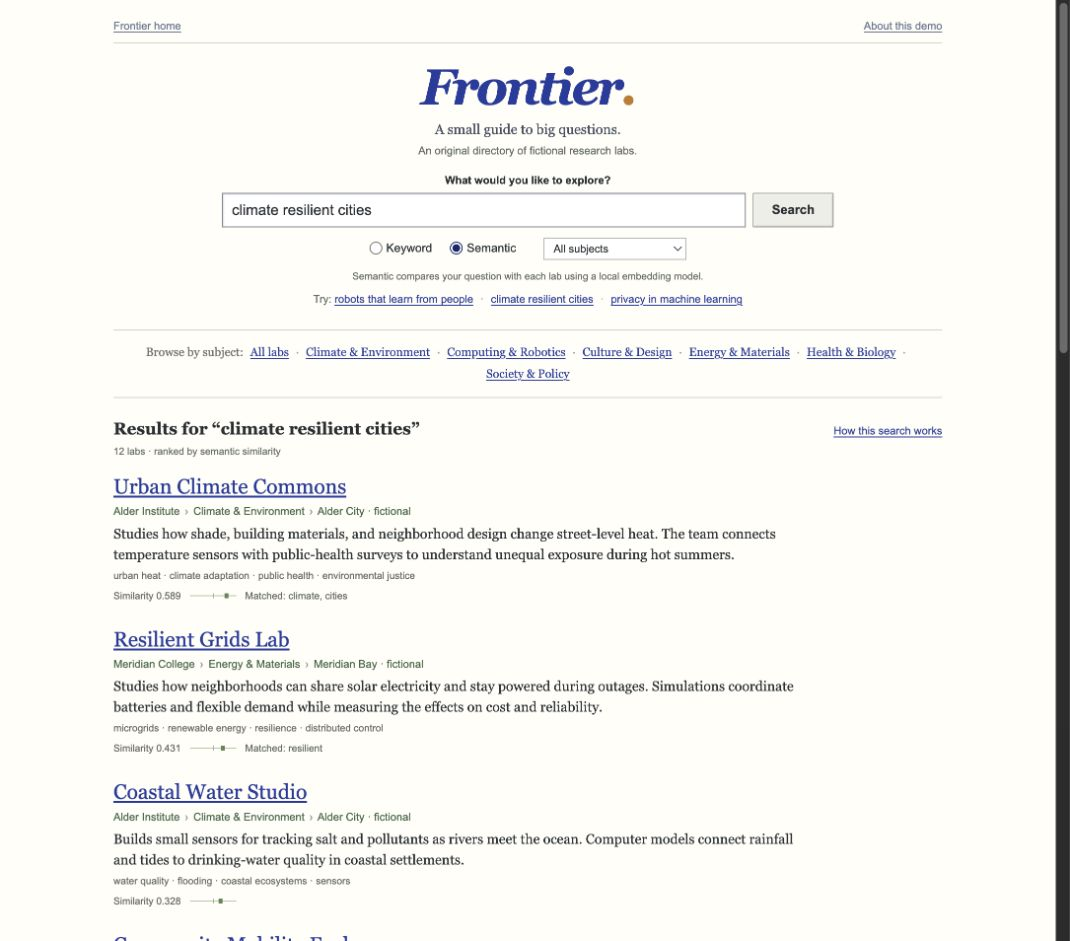
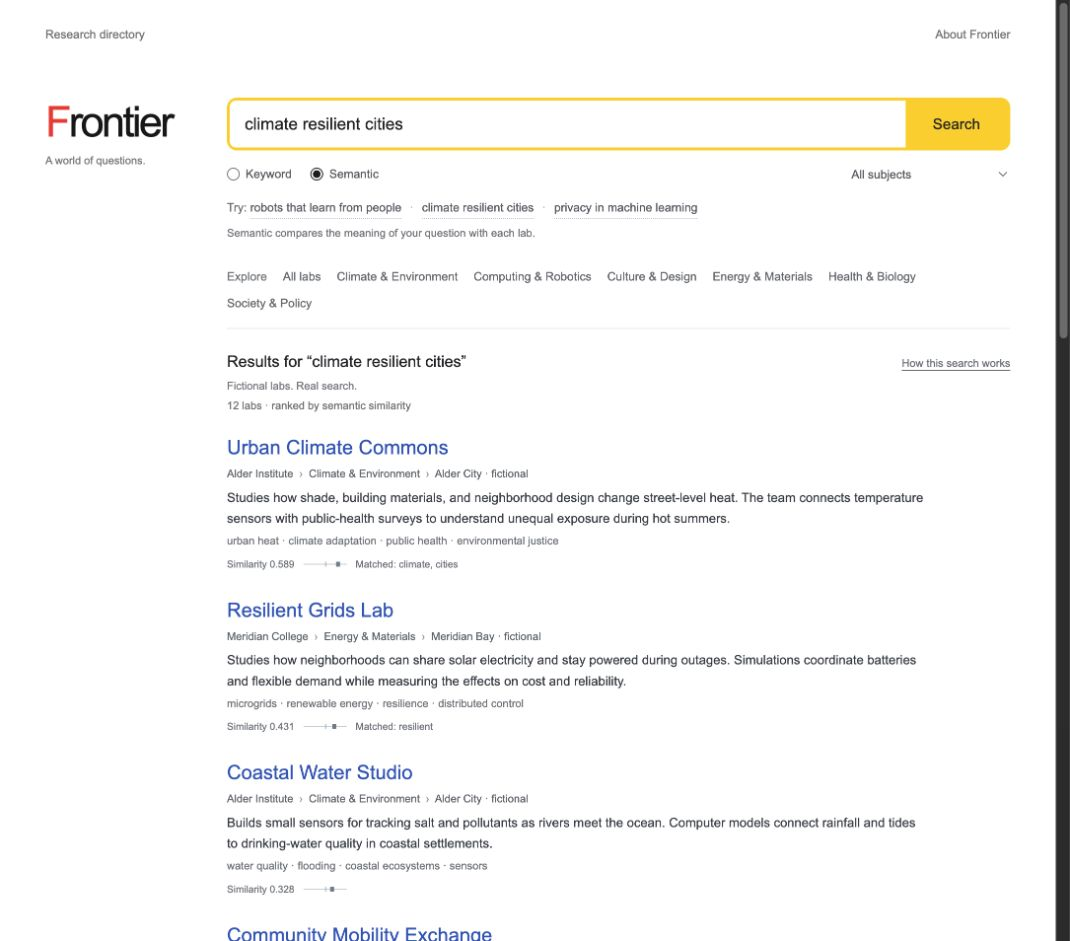
Give Frontier a Yandex-inspired search interface

diff --git a/projects/frontier/app/globals.css b/projects/frontier/app/globals.css
@@ -1,4 +1,5 @@
-:root{--paper:#fffef8;--ink:#292e32;--blue:#183d9b;--visited:#5a4385;--green:#496748;--muted:#666b68;--line:#d3d5c9;--serif:Georgia,"Times New Roman",serif;--sans:Arial,Helvetica,sans-serif;--mono:"SFMono-Regular",Consolas,"Liberation Mono",monospace}
-*{box-sizing:border-box}html{scroll-behavior:smooth;scroll-padding-top:20px}body{margin:0;background:var(--paper);color:var(--ink);font:15px/1.5 var(--serif)}h1,h2,h3,h4,p{margin:0}a,.link-button{color:var(--blue);text-decoration:underline;text-underline-offset:2px}a:hover,.link-button:hover{color:#8b322e}button,input,select{font:13px var(--sans);color:inherit}button{cursor:pointer;background:#eeeee8;border:1px solid #9a9e95;border-radius:1px;box-shadow:inset 1px 1px 0 #fff,inset -1px -1px 0 #d8d9d0;padding:5px 12px}button:hover:not(:disabled){background:#e7e8df}button:disabled{cursor:default;opacity:.45}button:focus-visible,a:focus-visible,input:focus-visible,select:focus-visible,pre:focus-visible{outline:2px solid #496bba;outline-offset:3px}input{accent-color:var(--blue)}::selection{background:#dce5fa}.link-button{background:none;border:0;border-radius:0;box-shadow:none;padding:0;font:inherit;text-align:left}.link-button:hover:not(:disabled){background:none}.sr-only{position:absolute;width:1px;height:1px;padding:0;overflow:hidden;clip:rect(0,0,0,0);white-space:nowrap;border:0}.skip-link{position:fixed;top:-60px;left:20px;background:var(--blue);color:#fff;padding:9px;z-index:100}.skip-link:focus{top:10px}.page-shell{max-width:910px;margin:0 auto;padding:20px 35px 28px}.utility-links{display:flex;justify-content:space-between;font:11px var(--sans);padding-bottom:10px;border-bottom:1px solid var(--line)}.utility-links a{color:#657491}.search-home{text-align:center;padding:20px 0 22px}.search-home h1{font:bold italic 51px/.95 var(--serif);letter-spacing:-2.7px}.search-home h1 a{text-decoration:none;color:var(--blue)}.search-home h1 span{color:#bc7c32}.tagline{font-size:14px;margin-top:8px;color:#454e61}.catalog-note{font:11px var(--sans);margin-top:5px;color:var(--muted)}.search-form{max-width:620px;margin:17px auto 0}.search-form>label{display:block;font:bold 11px var(--sans);margin-bottom:6px}.question-box{display:flex;gap:7px;min-height:35px}.question-box input{min-width:0;flex:1;padding:6px 9px;background:white;border:1px solid #818994;box-shadow:inset 1px 1px 1px #e0e2e7;font:15px var(--sans);border-radius:0}.question-box input::placeholder{color:#91969a}.search-button{font-weight:bold;min-width:82px}.search-options{display:flex;align-items:center;justify-content:center;gap:28px;margin-top:9px}.mode-selector{display:flex;align-items:center;gap:18px;margin:0;padding:0;border:0}.mode-selector label{display:flex;align-items:center;gap:4px;font:12px var(--sans);cursor:pointer}.mode-selector input{margin:0}.discipline-select select{max-width:210px;background:#fff;border:1px solid #b4b7b1;border-radius:0;padding:3px 5px;font-size:11px}.mode-explainer{font:10px/1.5 var(--sans);color:var(--muted);margin:9px 0 7px}.example-row{font:11px/1.6 var(--sans);color:var(--muted)}.separator{color:#999f9f;padding:0 4px}.semantic-notice{font:12px/1.6 var(--sans);color:#806236;margin-top:12px}.subject-directory{font:12px/1.85 var(--serif);padding:11px 0 12px;border-top:1px solid var(--line);border-bottom:1px solid var(--line);text-align:center}.subject-directory strong{font-weight:normal;color:#696c68;margin-right:4px}.subject-directory button[aria-current=true]{font-weight:bold;text-decoration:none;color:var(--ink)}.results-heading{display:flex;align-items:baseline;justify-content:space-between;gap:20px;padding:20px 0 10px}.results-heading h2{font:bold 17px/1.35 var(--serif);overflow-wrap:anywhere}.result-count{font:10px/1.6 var(--sans);color:var(--muted);margin-top:3px}.trace-toggle{flex-shrink:0;font:11px var(--sans)}.result-list{padding:4px 0}.lab-result{margin:0 0 23px;max-width:760px}.lab-result h3{font:normal 21px/1.3 var(--serif)}.lab-title{font:inherit}.lab-title[aria-expanded=true]{color:var(--visited)}.lab-address{font:11px/1.6 var(--sans);color:var(--green);margin:3px 0}.lab-address>span{color:#879380;margin:0 2px}.lab-summary{font:14px/1.5 var(--serif);max-width:710px}.lab-topics{font:10px/1.6 var(--sans);color:#656964;margin-top:3px}.score-line{display:flex;align-items:center;gap:9px;flex-wrap:wrap;color:#62675e;font:10px/1.5 var(--sans);margin-top:5px}.score-track{display:inline-block;position:relative;width:47px;height:3px;background:#dbe0d4;flex:0 0 47px}.score-fill{display:block;height:100%;background:#69845a}.score-track.cosine{height:1px;background:#b9c6ac}.cosine::after{position:absolute;content:"";left:50%;top:-2px;width:1px;height:5px;background:#a6b59c}.cosine-point{position:absolute;top:-2px;width:4px;height:5px;transform:translateX(-50%);background:#69845a;z-index:1}.matched-terms{color:#62695f}.inline-profile{margin-top:12px;border-left:2px solid #b9c6de;padding:4px 0 4px 17px;max-width:730px}.profile-heading{display:flex;align-items:center;justify-content:space-between;gap:18px;margin-bottom:6px}.profile-heading h4{font:bold 13px var(--sans)}.profile-heading button{font:10px var(--sans)}.inline-profile>p{font:13px/1.65 var(--serif);margin-top:7px}.inline-profile .provenance-note{font:10px/1.6 var(--sans);color:var(--muted);margin-top:10px}.provenance-note span{color:#656c61}.ranking-note{font:10px/1.65 var(--sans);color:var(--muted);max-width:720px;padding:6px 0 15px}.state-message{padding:30px 0 45px}.state-message h3{font:bold 17px var(--serif);margin-bottom:9px}.state-message p{font:13px/1.6 var(--sans);color:var(--muted);margin-bottom:16px;max-width:600px}.state-message>div{display:flex;gap:10px}.state-message .state-footnote{font-size:10px;margin-top:15px}.loading-state{font:13px var(--sans);color:var(--muted);padding:35px 0 65px}.loading-state p::after{content:"";display:inline-block;width:5px;height:5px;background:#829ac5;margin-left:12px;vertical-align:middle;animation:blink 1s steps(2,start) infinite}@keyframes blink{to{visibility:hidden}}.trace-section{margin:6px 0 25px;border-top:1px solid #9caecb;border-bottom:1px solid #9caecb;background:#f4f6fa;padding:15px 16px}.trace-heading{display:flex;align-items:baseline;justify-content:space-between;gap:15px}.trace-heading h3{font:bold 17px var(--serif)}.trace-heading button{font:11px var(--sans)}.trace-intro{font:12px/1.65 var(--sans);color:#657083;margin:9px 0 12px}.trace-controls{display:flex;gap:7px;align-items:center;flex-wrap:wrap;border-top:1px solid #d6dce7;border-bottom:1px solid #d6dce7;padding:10px 0}.trace-controls button{font-size:11px;padding:5px 11px}.trace-controls .play-button{font-weight:bold}.trace-position{font:10px var(--sans);color:#5e6b7e;margin-left:5px}.trace-controls .code-toggle{margin-left:auto}.trace-body.with-code{display:grid;grid-template-columns:minmax(0,.95fr) minmax(0,1.15fr);gap:17px}.operation-panel{min-width:0;padding-top:14px}.operation-list{margin:0;padding-left:23px;font:12px/1.8 var(--sans);color:#9aa4b6}.operation-list li{padding:1px 0}.operation-list button{border:0;background:none;box-shadow:none;padding:0;color:#57719f;font:inherit;text-align:left;text-decoration:underline;text-underline-offset:2px}.operation-list .current{font-weight:bold;color:#283f66;text-decoration:none}.operation-list button:hover:not(:disabled){background:none;color:var(--blue)}.operation-detail{margin:15px 0 10px;padding-top:13px;border-top:1px dotted #c7d0df}.operation-detail h4{font:bold 15px var(--serif);margin-bottom:7px}.operation-detail>p{font:12px/1.75 var(--sans);color:#5d6b81;overflow-wrap:anywhere}.operation-detail .source-location{font:9px/1.6 var(--mono);color:#5e6b7e;margin-top:11px}.source-panel{min-width:0;border-left:1px solid #d4dce9;padding-left:15px;margin-top:14px}.source-heading{display:flex;align-items:baseline;justify-content:space-between;gap:10px;font:10px var(--mono)}.source-heading button{font:10px var(--sans)}.source-caption{font:9px var(--sans);color:#5e6b7e;margin-top:8px}.source-panel pre{font:10px/1.8 var(--mono);color:#3e5372;overflow:auto;padding:10px 0;max-height:520px;tab-size:4;white-space:pre;margin:8px 0}.code-line{display:block}.line-number{display:inline-block;width:30px;text-align:right;padding-right:10px;color:#5e6b7e;user-select:none;font-size:9px}.source-error{font:10px/1.6 var(--sans);color:#77581d;margin-top:10px}.trace-caption{font:9px/1.6 var(--sans);color:#586577;margin-top:12px}.runtime-note{font:9px/1.6 var(--mono);color:#586577;margin-top:5px;overflow-wrap:anywhere}.footer{border-top:1px solid var(--line);padding-top:16px;margin-top:8px;color:var(--muted);font:11px/1.65 var(--serif);max-width:840px}.footer>p{max-width:700px}.footer strong{color:#5d655f}.service-status{font:10px/1.6 var(--sans);margin-top:7px}.footer-links{display:flex;justify-content:space-between;font:10px var(--sans);margin-top:18px;max-width:none!important}.footer-links>span{color:#666d61}
-@media(min-width:1300px){.page-shell{padding-top:24px}}@media(max-width:700px){.page-shell{padding:16px 22px 24px}.search-home{padding-top:23px}.search-home h1{font-size:47px}.search-form{margin-top:16px}.search-options{gap:20px}.results-heading{gap:15px}.results-heading h2{font-size:16px}.trace-toggle{font-size:10px}.trace-body.with-code{display:block}.source-panel{border-left:0;border-top:1px solid #d4dce9;padding:14px 0 0}.source-panel pre{font-size:11px;max-height:450px}.lab-result{margin-bottom:23px}}@media(max-width:440px){.page-shell{padding:14px 16px 22px}.search-home h1{font-size:45px}.search-home{padding:20px 0}.tagline{font-size:13px}.catalog-note{font-size:10px}.question-box{gap:5px}.question-box input{font-size:13px;padding:7px}.search-button{min-width:68px;padding:5px 10px;font-size:12px}.search-options{gap:13px;justify-content:space-between}.mode-selector{gap:11px}.mode-selector label{font-size:11px}.discipline-select{min-width:0;flex:1;max-width:170px}.discipline-select select{width:100%;max-width:100%;font-size:10px}.mode-explainer{font-size:9px}.example-row{font-size:10px;line-height:1.8}.subject-directory{font-size:11px;padding:10px 0;line-height:1.9}.results-heading{display:block;padding-top:17px}.trace-toggle{margin-top:7px;display:block}.lab-result h3{font-size:21px}.lab-summary{font-size:14px}.lab-address{font-size:10px}.lab-topics{font-size:9px}.trace-section{padding:13px 11px}.trace-controls{gap:6px}.trace-controls button{padding:5px 8px;font-size:10px}.trace-position{font-size:9px;margin-left:auto}.trace-controls .code-toggle{margin-left:0}.profile-heading{gap:10px}.profile-heading button{font-size:9px}.inline-profile{padding-left:12px}.footer-links{gap:15px}}
-@media(prefers-reduced-motion:reduce){html{scroll-behavior:auto}.loading-state p::after{animation:none}}
+:root{--paper:#fff;--ink:#202124;--blue:#1755b7;--visited:#683e9c;--muted:#6a6c70;--line:#e8e9eb;--yellow:#fc0;--red:#ed252a;--sans:Arial,Helvetica,sans-serif;--mono:"SFMono-Regular",Consolas,"Liberation Mono",monospace;--search-indent:184px}
+*{box-sizing:border-box}html{scroll-behavior:smooth;scroll-padding-top:20px}body{margin:0;background:var(--paper);color:var(--ink);font:14px/1.5 var(--sans)}h1,h2,h3,h4,p{margin:0}a,.link-button{color:var(--blue);text-decoration:none}a:hover,.link-button:hover{color:#c5221f;text-decoration:underline;text-underline-offset:3px}button,input,select{font:inherit;color:inherit}button{cursor:pointer;background:#f0f1f2;border:1px solid transparent;border-radius:6px;padding:7px 13px;box-shadow:none}button:hover:not(:disabled){background:#e5e7e9}button:disabled{cursor:default;opacity:.48}button:focus-visible,a:focus-visible,input:focus-visible,select:focus-visible,pre:focus-visible{outline:2px solid #386fc1;outline-offset:3px}input{accent-color:#34383e}::selection{background:#fff0ae}.link-button{background:none;border:0;border-radius:0;padding:0;font:inherit;text-align:left;box-shadow:none}.link-button:hover:not(:disabled){background:none}.sr-only{position:absolute;width:1px;height:1px;padding:0;overflow:hidden;clip:rect(0,0,0,0);white-space:nowrap;border:0}.skip-link{position:fixed;top:-60px;left:20px;background:var(--yellow);color:#202124;padding:10px 15px;z-index:100;border-radius:5px}.skip-link:focus{top:10px}.page-shell{max-width:1200px;margin:0 auto;padding:26px 46px 35px}.utility-links{display:flex;justify-content:space-between;font-size:12px}.utility-links a{color:#6b6d70}.search-home{display:grid;grid-template-columns:var(--search-indent) minmax(0,1fr);align-items:start;padding:55px 0 27px;gap:0}.search-brand{padding-top:1px}.search-home h1{font:500 43px/1.1 var(--sans);letter-spacing:-2.5px}.search-home h1 a{color:#171717;text-decoration:none}.search-home h1 span{color:var(--red)}.tagline{font-size:11px;color:#6e7074;margin-top:7px}.search-workspace{min-width:0;max-width:850px}.search-form{margin:0}.question-box{display:flex;background:var(--yellow);border:3px solid var(--yellow);border-radius:10px;overflow:visible;min-height:53px;transition:border-color .12s}.question-box:focus-within{border-color:#edb900}.question-box input{flex:1;min-width:0;border:0;background:#fff;box-shadow:none;font-size:17px;padding:11px 15px;border-radius:6px 0 0 6px}.question-box input::placeholder{color:#6d7279;opacity:1}.question-box input:focus-visible{outline:2px solid #a67500;outline-offset:-3px}.search-button{min-width:103px;padding:10px 22px;background:var(--yellow);border:0;border-radius:0 7px 7px 0;font-size:15px;letter-spacing:.1px;color:#222;box-shadow:none}.search-button:hover:not(:disabled){background:#f2bf00}.search-button:focus-visible{outline:2px solid #333;outline-offset:-5px}.search-options{display:flex;align-items:center;gap:24px;margin-top:12px}.mode-selector{display:flex;align-items:center;gap:19px;padding:0;border:0;margin:0}.mode-selector label{display:flex;gap:6px;align-items:center;font-size:12px;color:#54575c;cursor:pointer;min-height:24px}.mode-selector input{margin:0;width:13px;height:13px}.discipline-select{margin-left:auto;display:block;min-width:0}.discipline-select select{border:0;background:#fff;color:#54575c;max-width:260px;font-size:12px;padding:4px 22px 4px 3px;cursor:pointer;border-radius:3px}.example-row{font-size:12px;line-height:1.8;color:#6d6f73;margin-top:11px}.example-row>.separator{color:#a1a4a9}.example-row .link-button{color:#545960;border-bottom:1px dotted #bbbfc5;text-decoration:none}.example-row .link-button:hover{color:#c5221f;border-bottom-color:#c5221f}.separator{padding:0 5px;color:#a2a5a9}.mode-explainer{font-size:11px;color:#6e7176;margin-top:6px}.semantic-notice{font-size:12px;line-height:1.6;margin-top:12px;color:#815b00}.subject-directory{margin-left:var(--search-indent);padding:0 0 16px;max-width:850px;display:flex;align-items:baseline;flex-wrap:wrap;gap:9px 16px;border-bottom:1px solid var(--line);font-size:12px;color:#65686d}.subject-directory>strong{font-weight:normal;color:#6e7176}.subject-directory button{color:#61656a;white-space:nowrap;position:relative}.subject-directory button:hover{color:#c5221f}.subject-directory button[aria-current=true]{font-weight:bold;color:#202124}.subject-directory button[aria-current=true]::after{content:"";position:absolute;left:0;right:0;bottom:-7px;height:2px;background:var(--yellow)}.subject-separator{display:none}.research-index{margin-left:var(--search-indent);max-width:850px}.results-heading{display:flex;align-items:baseline;justify-content:space-between;gap:20px;padding:22px 0 18px}.results-heading h2{font-size:16px;font-weight:500;line-height:1.4;overflow-wrap:anywhere}.catalog-note{font-size:11px;color:#6e7176;margin-top:5px}.result-count{font-size:11px;line-height:1.6;color:var(--muted);margin-top:3px}.trace-toggle{font-size:11px;color:#666b73;flex-shrink:0;text-decoration:underline;text-underline-offset:3px}.result-list{padding:2px 0}.lab-result{margin-bottom:25px;max-width:735px}.lab-result h3{font-size:20px;font-weight:400;line-height:1.35}.lab-title{font:inherit}.lab-title[aria-expanded=true]{color:var(--visited)}.lab-address{font-size:11px;line-height:1.7;color:#5c6269;margin:4px 0}.lab-address>span{color:#94999f;margin:0 3px}.lab-summary{font-size:13px;line-height:1.65;color:#343940;max-width:710px}.lab-topics{font-size:11px;line-height:1.65;color:#6b7076;margin-top:3px}.score-line{display:flex;align-items:center;gap:9px;flex-wrap:wrap;color:#686d74;font-size:10px;line-height:1.6;margin-top:6px}.score-track{display:inline-block;position:relative;width:44px;height:3px;background:#e3e5e8;flex:0 0 44px;border-radius:1px}.score-fill{display:block;height:100%;background:#707b89;border-radius:1px}.score-track.cosine{height:1px;background:#c7cdd4}.cosine::after{position:absolute;content:"";left:50%;top:-2px;width:1px;height:5px;background:#a3adb9}.cosine-point{position:absolute;top:-2px;width:4px;height:5px;transform:translateX(-50%);background:#707b89;z-index:1}.matched-terms{color:#686d74}.inline-profile{margin-top:13px;border-left:3px solid var(--yellow);padding:2px 0 3px 17px;max-width:715px}.profile-heading{display:flex;align-items:center;justify-content:space-between;gap:18px;margin-bottom:7px}.profile-heading h4{font-size:13px;font-weight:600}.profile-heading button{font-size:11px}.inline-profile>p{font-size:12px;line-height:1.7;margin-top:8px;color:#454a51}.inline-profile .provenance-note{font-size:10px;line-height:1.65;color:#686d74;margin-top:11px}.provenance-note span{color:#686d74}.ranking-note{font-size:11px;line-height:1.7;color:var(--muted);max-width:720px;padding:4px 0 18px}.state-message{padding:25px 0 45px}.state-message h3{font-size:18px;font-weight:500;margin-bottom:10px}.state-message p{font-size:13px;line-height:1.65;color:var(--muted);margin-bottom:17px;max-width:600px}.state-message>div{display:flex;gap:10px;flex-wrap:wrap}.state-message>button,.state-message>div>button:first-child{background:var(--yellow);color:#222}.state-message .state-footnote{font-size:11px;margin-top:16px}.loading-state{font-size:13px;color:var(--muted);padding:30px 0 65px}.loading-state p::after{content:"";display:inline-block;width:6px;height:6px;background:#dab400;border-radius:50%;margin-left:12px;vertical-align:middle;animation:blink 1s steps(2,start) infinite}@keyframes blink{to{visibility:hidden}}.trace-section{margin:4px 0 25px;background:#f6f7f8;border-radius:8px;padding:19px 20px}.trace-heading{display:flex;align-items:baseline;justify-content:space-between;gap:15px}.trace-heading h3{font-size:17px;font-weight:500}.trace-heading button{font-size:11px}.trace-intro{font-size:12px;line-height:1.7;color:#5b6370;margin:11px 0 14px}.trace-controls{display:flex;gap:7px;align-items:center;flex-wrap:wrap;border-top:1px solid #e0e3e7;border-bottom:1px solid #e0e3e7;padding:11px 0}.trace-controls button{font-size:11px;padding:6px 11px;background:#e9ecef;color:#3c4652}.trace-controls .play-button{font-weight:500;background:var(--yellow);color:#222}.trace-controls .play-button:hover:not(:disabled){background:#f2bf00}.trace-position{font-size:10px;color:#5c6675;margin-left:5px}.trace-controls .code-toggle{margin-left:auto}.trace-body.with-code{display:grid;grid-template-columns:minmax(0,.95fr) minmax(0,1.15fr);gap:17px}.operation-panel{min-width:0;padding-top:15px}.operation-list{margin:0;padding-left:23px;font-size:12px;line-height:1.8;color:#626d7b}.operation-list li{padding:2px 0}.operation-list button{border:0;background:none;border-radius:0;padding:0;color:#42659b;font:inherit;text-align:left;text-decoration:none}.operation-list .current{font-weight:bold;color:#333e4d;text-decoration:underline;text-decoration-color:#e2bb00;text-decoration-thickness:2px;text-underline-offset:3px}.operation-list button:hover:not(:disabled){background:none;color:#c5221f}.operation-detail{margin:16px 0 9px;padding-top:14px;border-top:1px solid #dde1e6}.operation-detail h4{font-size:14px;font-weight:600;margin-bottom:8px}.operation-detail>p{font-size:12px;line-height:1.75;color:#566273;overflow-wrap:anywhere}.operation-detail .source-location{font:9px/1.6 var(--mono);color:#5e6b7e;margin-top:12px}.source-panel{min-width:0;border-left:1px solid #dce1e7;padding-left:15px;margin-top:15px}.source-heading{display:flex;align-items:baseline;justify-content:space-between;gap:10px;font:10px var(--mono)}.source-heading button{font:10px var(--sans)}.source-caption{font-size:9px;color:#5e6b7e;margin-top:9px}.source-panel pre{font:10px/1.85 var(--mono);color:#3c506b;overflow:auto;padding:11px 0;max-height:520px;tab-size:4;white-space:pre;margin:8px 0}.code-line{display:block}.line-number{display:inline-block;width:30px;text-align:right;padding-right:10px;color:#5e6b7e;user-select:none;font-size:9px}.source-error{font-size:10px;line-height:1.6;color:#77581d;margin-top:11px}.trace-caption{font-size:10px;line-height:1.6;color:#586577;margin-top:13px}.runtime-note{font:9px/1.6 var(--mono);color:#586577;margin-top:5px;overflow-wrap:anywhere}.footer{border-top:1px solid var(--line);padding-top:20px;margin:15px 0 0 var(--search-indent);color:var(--muted);font-size:11px;line-height:1.7;max-width:850px}.footer>p{max-width:740px}.footer strong{font-weight:500;color:#545a62}.service-status{font-size:10px;line-height:1.6;margin-top:8px}.footer-links{display:flex;justify-content:space-between;font-size:11px;margin-top:21px;max-width:none!important}.footer-links>span{color:#6e747c}
+@media(min-width:1450px){.page-shell{padding-top:30px}.search-home{padding-top:72px}}@media(max-width:1050px){:root{--search-indent:154px}.page-shell{padding-left:32px;padding-right:32px}.search-home h1{font-size:37px}.tagline{font-size:10px}.search-home{padding-top:43px}.question-box{min-height:50px}.question-box input{font-size:16px}.search-button{min-width:90px;padding:10px 19px}.subject-directory{gap:10px 15px}.results-heading{gap:15px}.lab-result{max-width:100%}.trace-toggle{font-size:10px}.trace-body.with-code{grid-template-columns:minmax(0,.9fr) minmax(0,1.1fr)}}@media(max-width:760px){:root{--search-indent:0px}.page-shell{padding:21px 27px 28px}.search-home{display:block;padding:28px 0 22px}.search-brand{display:flex;gap:18px;align-items:baseline;margin-bottom:20px}.search-home h1{font-size:43px}.tagline{font-size:11px;margin:0}.search-options{gap:20px}.question-box{min-height:52px}.question-box input{font-size:16px}.search-button{min-width:92px}.subject-directory{padding-bottom:17px;gap:10px 17px}.results-heading{padding-top:20px}.results-heading h2{font-size:16px}.trace-toggle{font-size:11px}.trace-body.with-code{display:block}.source-panel{border-left:0;border-top:1px solid #dce1e7;padding:15px 0 0}.source-panel pre{font-size:11px;max-height:450px}.lab-result{margin-bottom:25px}.lab-result h3{font-size:20px}}
+@media(max-width:440px){.page-shell{padding:18px 17px 25px}.utility-links{font-size:11px}.search-home{padding:29px 0 19px}.search-brand{gap:16px;margin-bottom:18px}.search-home h1{font-size:40px;letter-spacing:-2.3px}.tagline{font-size:10px;line-height:1.6;max-width:100px}.question-box{min-height:49px;border-width:3px;border-radius:9px}.question-box input{font-size:14px;padding:10px 11px}.search-button{min-width:76px;font-size:13px;padding:10px 14px}.search-options{gap:11px;margin-top:10px}.mode-selector{gap:15px}.mode-selector label{font-size:11px;gap:5px}.mode-selector input{width:12px;height:12px}.discipline-select{max-width:145px}.discipline-select select{max-width:100%;width:100%;font-size:11px;padding-right:16px}.example-row{font-size:11px;line-height:1.9;margin-top:9px}.mode-explainer{font-size:10px;line-height:1.7;margin-top:6px}.subject-directory{font-size:11px;gap:10px 15px}.results-heading{display:block;padding-top:19px;padding-bottom:18px}.trace-toggle{margin-top:9px;display:block;font-size:11px}.result-count,.catalog-note{font-size:10px}.lab-result h3{font-size:19px}.lab-summary{font-size:13px;line-height:1.7}.lab-address{font-size:10px}.lab-topics{font-size:10px}.score-line{font-size:10px}.trace-section{padding:15px 13px}.trace-controls{gap:6px}.trace-controls button{padding:6px 9px;font-size:10px}.trace-position{font-size:9px;margin-left:auto}.trace-controls .code-toggle{margin-left:0}.profile-heading{gap:10px}.profile-heading button{font-size:10px}.inline-profile{padding-left:13px}.footer-links{gap:15px;font-size:10px}}
+@media(prefers-reduced-motion:reduce){html{scroll-behavior:auto}.loading-state p::after{animation:none}.question-box{transition:none}}

diff --git a/projects/frontier/app/page.tsx b/projects/frontier/app/page.tsx
@@ -135,30 +135,30 @@ export default function Frontier() {
 
   return <>
     <a className="skip-link" href="#research-index">Skip to research results</a>
-    <div className="page-shell">
-      <nav className="utility-links" aria-label="Page navigation"><a href="/">Frontier home</a><a href="#about">About this demo</a></nav>
+    <div className={`page-shell${hasQuery || discipline ? " search-active" : ""}`}>
+      <nav className="utility-links" aria-label="Page navigation"><a href="/">Research directory</a><a href="#about">About Frontier</a></nav>
       <main>
         <header className="search-home">
-          <h1><a href="/">Frontier<span aria-hidden="true">.</span></a></h1>
-          <p className="tagline">A small guide to big questions.</p>
-          <p className="catalog-note">An original directory of fictional research labs.</p>
+          <div className="search-brand"><h1><a href="/" aria-label="Frontier home"><span>F</span>rontier</a></h1><p className="tagline">A world of questions.</p></div>
+          <div className="search-workspace">
           <form className="search-form" onSubmit={event => { event.preventDefault(); search(); }}>
-            <label htmlFor="research-question">What would you like to explore?</label>
-            <div className="question-box"><input ref={searchInput} id="research-question" value={query} onChange={event => setQuery(event.target.value)} maxLength={500} autoComplete="off" placeholder="A topic, a question, an idea…" /><button className="search-button" type="submit">Search</button></div>
+            <label className="sr-only" htmlFor="research-question">What would you like to explore?</label>
+            <div className="question-box"><input ref={searchInput} id="research-question" value={query} onChange={event => setQuery(event.target.value)} maxLength={500} autoComplete="off" placeholder="Find a lab, explore an idea" /><button className="search-button" type="submit">Search</button></div>
             <div className="search-options">
               <fieldset className="mode-selector"><legend className="sr-only">Search method</legend>{(["keyword", "semantic"] as Mode[]).map(value => <label key={value}><input type="radio" name="mode" value={value} checked={mode === value} onChange={() => search({ mode: value })} />{value === "keyword" ? "Keyword" : "Semantic"}</label>)}</fieldset>
               <label className="discipline-select"><span className="sr-only">Filter by subject</span><select value={discipline} onChange={event => search({ discipline: event.target.value })}><option value="">All subjects</option>{disciplines.map(value => <option key={value} value={value}>{value}</option>)}{discipline && !disciplines.includes(discipline) && <option value={discipline}>{discipline}</option>}</select></label>
             </div>
           </form>
-          <p className="mode-explainer">{mode === "keyword" ? "Keyword finds matching words. Semantic looks for a similar meaning." : "Semantic compares your question with each lab using a local embedding model."}</p>
           <p className="example-row"><span>Try: </span>{EXAMPLES.map((example, index) => <span key={example}>{index > 0 && <span className="separator"> · </span>}<button type="button" className="link-button" onClick={() => search({ query: example })}>{example}</button></span>)}</p>
+          <p className="mode-explainer">{mode === "keyword" ? "Keyword matches words. Semantic finds similar meaning." : "Semantic compares the meaning of your question with each lab."}</p>
           {mode === "semantic" && health && !health.semantic.available && <p className="semantic-notice" role="status">The local semantic model is not ready. <button className="link-button" onClick={() => search({ mode: "keyword" })}>Use keyword search</button>.</p>}
+          </div>
         </header>
 
-        <nav className="subject-directory" aria-label="Browse by subject"><strong>Browse by subject: </strong><button className="link-button" onClick={() => search({ query: "", discipline: "" })} aria-current={!discipline && !query ? "true" : undefined}>All labs</button>{disciplines.map(value => <span key={value}><span className="separator"> · </span><button className="link-button" onClick={() => search({ query: "", discipline: value })} aria-current={discipline === value && !query ? "true" : undefined}>{value}</button></span>)}</nav>
+        <nav className="subject-directory" aria-label="Browse by subject"><strong>Explore </strong><button className="link-button" onClick={() => search({ query: "", discipline: "" })} aria-current={!discipline && !query ? "true" : undefined}>All labs</button>{disciplines.map(value => <span key={value}><span className="subject-separator" aria-hidden="true"> </span><button className="link-button" onClick={() => search({ query: "", discipline: value })} aria-current={discipline === value && !query ? "true" : undefined}>{value}</button></span>)}</nav>
 
         <section id="research-index" className="research-index" aria-labelledby="index-heading" aria-busy={loading}>
-          <div className="results-heading"><div><h2 id="index-heading">{hasQuery ? <>Results for “{result?.query}”</> : result?.discipline || "The research directory"}</h2><p className="result-count" aria-live="polite">{loading ? "Searching the directory…" : result ? `${result.total} ${result.total === 1 ? "lab" : "labs"}${result.total > result.results.length ? ` · showing ${result.results.length}` : ""}${hasQuery ? ` · ranked by ${result.mode === "semantic" ? "semantic similarity" : "keyword match"}` : " · in alphabetical order"}` : "Search unavailable"}</p></div><button ref={traceToggleRef} className="link-button trace-toggle" type="button" onClick={openTrace} disabled={loading || !result?.trace.length} aria-expanded={showTrace} aria-controls="search-trace">{showTrace ? "Hide search walkthrough" : "How this search works"}</button></div>
+          <div className="results-heading"><div><h2 id="index-heading">{hasQuery ? <>Results for “{result?.query}”</> : result?.discipline || "The research directory"}</h2><p className="catalog-note">Fictional labs. Real search.</p><p className="result-count" aria-live="polite">{loading ? "Searching the directory…" : result ? `${result.total} ${result.total === 1 ? "lab" : "labs"}${result.total > result.results.length ? ` · showing ${result.results.length}` : ""}${hasQuery ? ` · ranked by ${result.mode === "semantic" ? "semantic similarity" : "keyword match"}` : " · in alphabetical order"}` : "Search unavailable"}</p></div><button ref={traceToggleRef} className="link-button trace-toggle" type="button" onClick={openTrace} disabled={loading || !result?.trace.length} aria-expanded={showTrace} aria-controls="search-trace">{showTrace ? "Hide search walkthrough" : "How this search works"}</button></div>
 
           {showTrace && result && <section ref={traceRef} id="search-trace" className="trace-section" aria-labelledby="trace-title"><div className="trace-heading"><h3 id="trace-title">How this search works</h3><button className="link-button" onClick={closeTrace}>Close</button></div><p className="trace-intro">These are the operations the backend recorded for {result.query ? <q>{result.query}</q> : "this catalog browse"}. Follow each step, then open the Python behind it.</p><div className="trace-controls"><button onClick={() => { setStep(0); setPlaying(false); }} disabled={step === 0 && !playing}>Reset</button><button onClick={() => { setPlaying(false); setStep(value => Math.max(0, value - 1)); }} disabled={step === 0}>← Back</button><button className="play-button" onClick={() => { if (!playing && step >= result.trace.length - 1) setStep(0); setPlaying(value => !value); }} disabled={!result.trace.length}>{playing ? "Pause" : "▶ Play"}</button><button onClick={() => { setPlaying(false); setStep(value => Math.min(result.trace.length - 1, value + 1)); }} disabled={step >= result.trace.length - 1}>Next →</button><span className="trace-position">Step {step + 1} of {result.trace.length}</span><button className="code-toggle" onClick={() => setShowCode(value => !value)} aria-expanded={showCode} aria-controls="trace-source">{showCode ? "Hide code" : "Show code"}</button></div><div className={`trace-body${showCode ? " with-code" : ""}`}><div className="operation-panel"><ol className="operation-list" aria-label="Search operations">{result.trace.map((operation, index) => <li key={`${operation.step}-${operation.title}`}><button className={step === index ? "current" : ""} onClick={() => { setStep(index); setPlaying(false); }} aria-current={step === index ? "step" : undefined}>{operation.title}</button></li>)}</ol>{activeStep && <div className="operation-detail" aria-live="polite"><h4>{activeStep.title}</h4><p>{activeStep.description}</p><p className="source-location">{activeStep.file}:{activeStep.lineStart}–{activeStep.lineEnd}</p></div>}</div>{showCode && activeStep && <div id="trace-source" className="source-panel"><div className="source-heading"><span>{activeStep.file}</span><button className="link-button" onClick={() => setShowFullSource(value => !value)} disabled={!source || sourceLoading}>{showFullSource ? "Relevant lines" : "Full file"}</button></div><p className="source-caption">{showFullSource ? "Current backend source · read only" : `Executed operation · lines ${activeStep.lineStart}–${activeStep.lineEnd}`}</p>{sourceError && <p className="source-error" role="status">{sourceError} The recorded snippet is shown below.</p>}<pre tabIndex={0} aria-label={`Python source for ${activeStep.title}`}><code>{(showFullSource && source ? source.source : activeStep.snippet).split("\n").map((line, index) => <span className="code-line" key={index}><span className="line-number" aria-hidden="true">{showFullSource ? index + 1 : activeStep.lineStart + index}</span>{line || " "}</span>)}</code></pre></div>}</div><p className="trace-caption">Playback follows a completed request. It does not send another search or change the database.</p>{health && <p className="runtime-note">{health.database} · {health.semantic.model} · {health.semantic.dimensions} dimensions · {health.semantic.available ? "local model ready" : "model unavailable"}</p>}</section>}
 

diff --git a/projects/frontier/README.md b/projects/frontier/README.md
@@ -1,6 +1,6 @@
 # Frontier
 
-A research-discovery application: describe an idea, compare keyword and semantic retrieval, and inspect how the results reached the page. The interface is a classic web search directory: a search box, blue result links, visible abstracts, and profiles that expand directly below a result. Search explanations and source are optional.
+A research-discovery application: describe an idea, compare keyword and semantic retrieval, and inspect how the results reached the page. A classic Yandex-inspired search interface pairs Frontier's own wordmark with a yellow search bar, a white page, compact result links, and profiles that expand directly below a result. Search explanations and source are optional. This is an independent project, unaffiliated with Yandex.
 
 This is a new, AI-assisted learning rebuild. Its twelve labs, institutions, and research descriptions are fictional. It does not recreate private venture code or establish historical customer or institutional claims.
 
